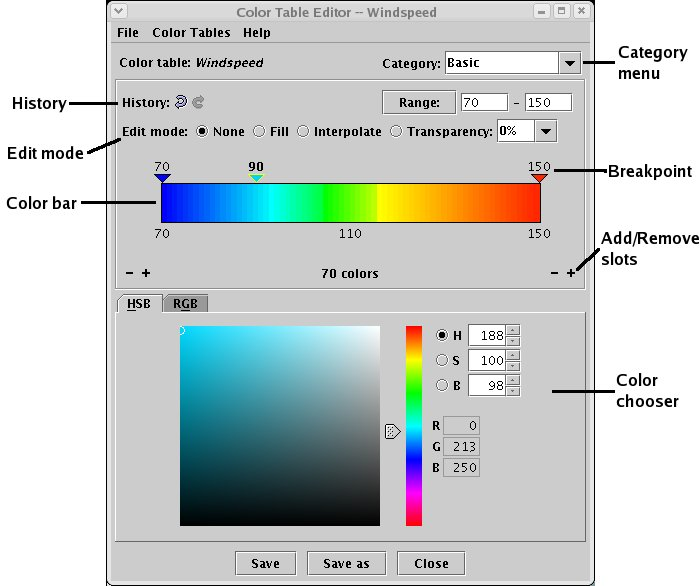
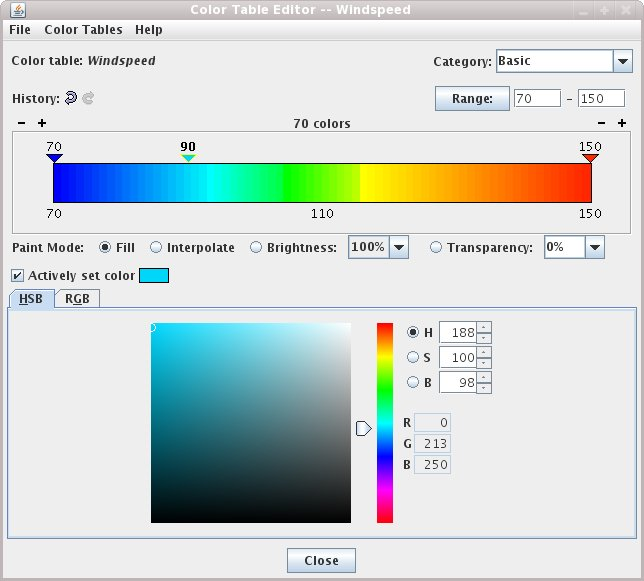
new images

diff --git a/auxdata/docs/userguide/content/tools/ColorTableEditor.html b/auxdata/docs/userguide/content/tools/ColorTableEditor.html
@@ -8,16 +8,18 @@
 <%childlist%>
 
 
-[ht::cimg images/colortable/Main.jpeg]
   
 
 <subhead intoc="false" id="intro">Introduction</subhead>
 
 
-The Color Table Editor supports editing existing color tables
-and creating new ones.
-A color table is an ordered collection of colors
+The Integrated Data Viewer provides a  Color Table Editor which 
+supports editing existing color tables
+and creating new ones. A color table is an ordered collection of colors
 that is used to color a display according to a range of data values. 
+
+
+[ht::cimg images/colortable/Main.jpeg]
 
 
 <subhead intoc="false" id="starting">Starting the Color Table Editor</subhead>
@@ -57,29 +59,30 @@ If [ug::button Auto Update] is checked the change takes place without further ac
 you, as soon as you select a new color table.
 
 
-<subhead intoc="false" id="legend">Color Legend and Setting Colors</subhead>
-
-[ht::cimg images/colortable/Legend.gif]
+<subhead intoc="false" id="legend">Color Legend</subhead>
 
 
 The color table is shown in the bar of color across the
 window, the color legend.  How many colors are in the
-table is shown in a label in the lower center, such as "210 colors."  
+table is shown in a label in the upper center, such as "70 colors."  
 You can reduce or increase the number of colors by clicking on the
 <b>-/+</b> choices near the left and right ends of the
 legend. New colors are added or removed 
 at each end of the legend with the same color as the end color.
+Pressing Shift-Click on any of these buttons will add/remove 10 color 
+slots at a time.
 
 <p>
 
-Under the color legend is a black and white checker board to help show
+Underneath the color legend is a black and white checker board pattern to help show
 the degree of transparency. Most color tables have zero transparency and
 the checker board is not visible.
 
 <p>
 
 The <b>History</b> undo/redo buttons in the upper left allow you to 
-step forward and backward through the  changes you have made.
+step forward and backward through the  changes you have made. Shift-clicking
+on these buttons will step forward/back 10 changes.
 
 <p>
 
@@ -93,6 +96,32 @@ If the Color Table Editor is being used in conjunction with a display
 then when you change the range that range is applied to the display as well.
 
 
+<subhead intoc="false" id="painting">Changing Colors</subhead>
+
+
+<p>
+You can "paint" in the color bar by just dragging the mouse within it. When
+your mouse is over the color bar the cursor will change to  a paintbrush and
+a gray line is drawn to indicate the position of the cursor.
+<p>
+The type of painting is specified by the Paint Mode buttons.
+<ul>
+<li> [ug::button Fill]. When you drag
+it will fill the color table with the currently chosen
+color in the color chooser.  
+<li> [ug::button Interpolate]. Apply  a linear interpolation 
+from where you started dragging the breakpoint to the color value of 
+where the breakpoint is currently  at while dragging. 
+<li> [ug::button Transparency]. Apply the given transparency
+value (in the editable pull down menu) to the color table where
+you are dragging the breakpoint.
+</ul>
+
+<p>
+
+
+
+
 <p>
 
 The editor uses &quot;breakpoints&quot; indicated along the top of the 
@@ -102,8 +131,7 @@ in <b>bold</b> characters.  There is only one active
 breakpoint at a time. Making a new breakpoint makes the new breakpoint active.
 <p>
 Breakpoints are used for a number of things: showing the data value at a point
-along the color table and changing the colors (fill, interpolation or transparency)
-directly below the breakpoint by dragging the breakpoint and changing
+along the color table and and changing
 colors through a popup menu.
 
 <p>
@@ -128,23 +156,10 @@ item  [ug::menu {Change Breakpoint}] .
 
 <p>
 
-To change colors by directly moving a breakpoint select the type
-of change you want with the [ug::button Edit mode] buttons:
-<ul>
-<li> [ug::button Fill]. When you drag
-a breakpoint it will fill the color table with the currently chosen
-color in the color chooser.  Note: no matter  what the edit mode
+
+Note: no matter  what the edit mode
 is when you change colors in the color chooser that color will be applied
 to the active breakpoint.
-<li> [ug::button Interpolate]. Apply  a linear interpolation 
-from where you started dragging the breakpoint to the color value of 
-where the breakpoint is currently  at while dragging. 
-<li> [ug::button Transparency]. Apply the given transparency
-value (in the editable pull down menu) to the color table where
-you are dragging the breakpoint.
-</ul>
-
-<p>
 
 
 You can also change colors and manipulate breakpoints 
@@ -212,7 +227,7 @@ or modified color table can be saved for future use.
 <p>
 
 To save a new or modified color table simply select the
-the [ug::menu File Save]  menu item or [ug::button Save] button.
+the [ug::menu File Save]  menu item.
 To save a modified color table as a new color table, select
 [ug::menu File {Save As}]  and enter the new name in the dialog box that
 appears. This new color table will now be permanently saved in your

diff --git a/auxdata/docs/userguide/content/data/choosers/PointChooser.html b/auxdata/docs/userguide/content/data/choosers/PointChooser.html
@@ -34,9 +34,6 @@ Times can be selected in the list or the time line
 See the <a href="../../tools/Timeline.html">Timeline section</a> for details on its use.
 
 
-<li> Optionally, select the station model you want to use
-when displaying this data as a point data plot.
-
 <li> When done, load the selected point data with the [ug::button Add Source] button.
 
 </ol>

diff --git a/auxdata/docs/userguide/content/data/choosers/ImageChooser.html b/auxdata/docs/userguide/content/data/choosers/ImageChooser.html
@@ -65,5 +65,11 @@ the type of location to use.
 Image size and magnification can also be set.  Click on the slider
 icon to change the values.
 
+<p>
+
+The Full Resolution button: <img src="images/arrow_out.png"> allows you to set the magnifcation,
+image size and position to be the full image resolution.
+
+
 </html>
 </body>
